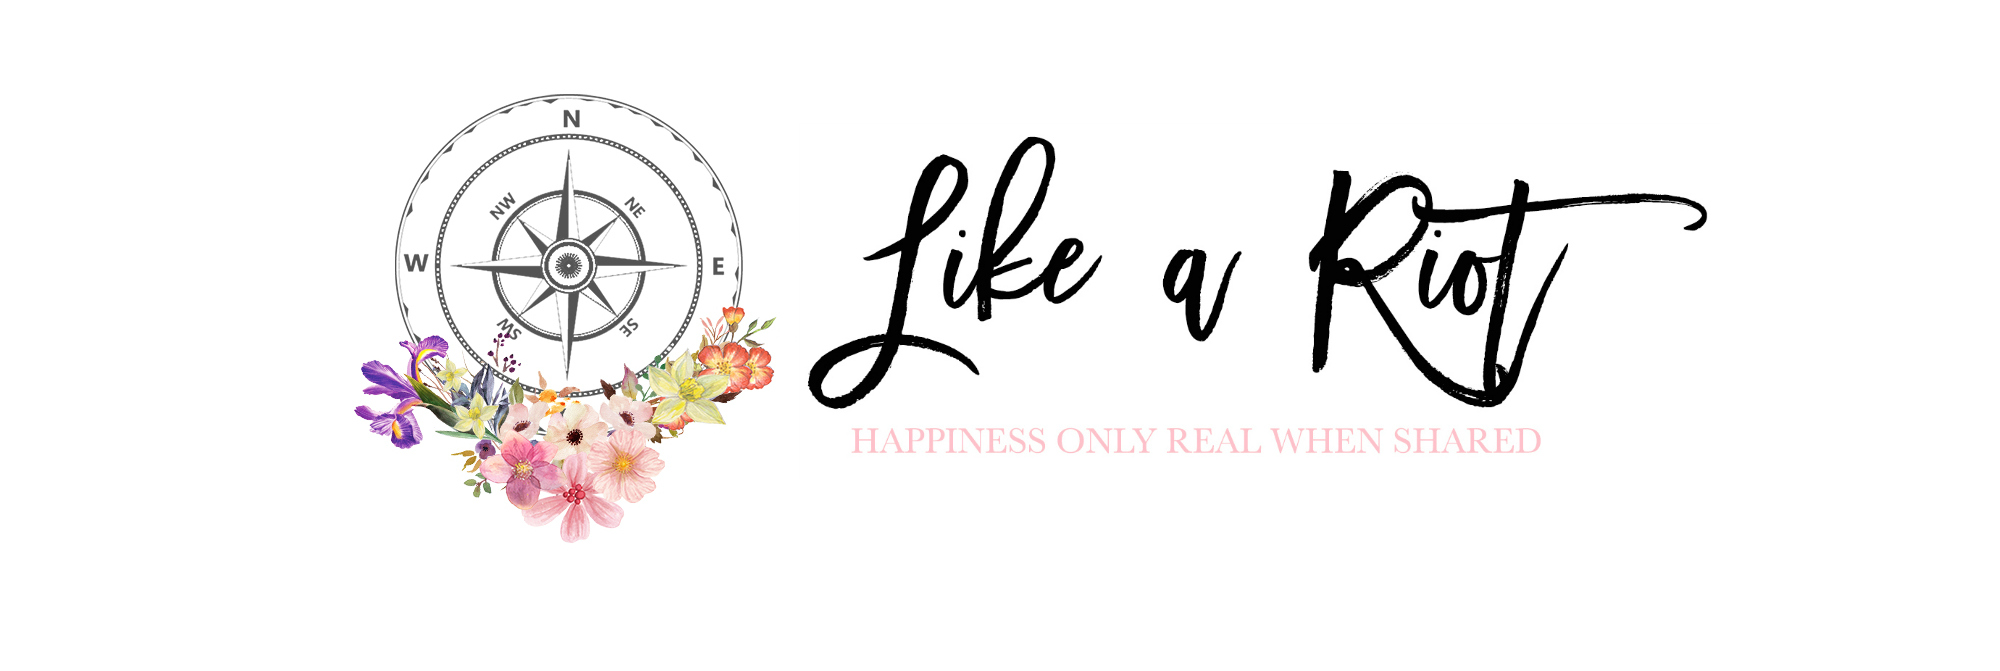
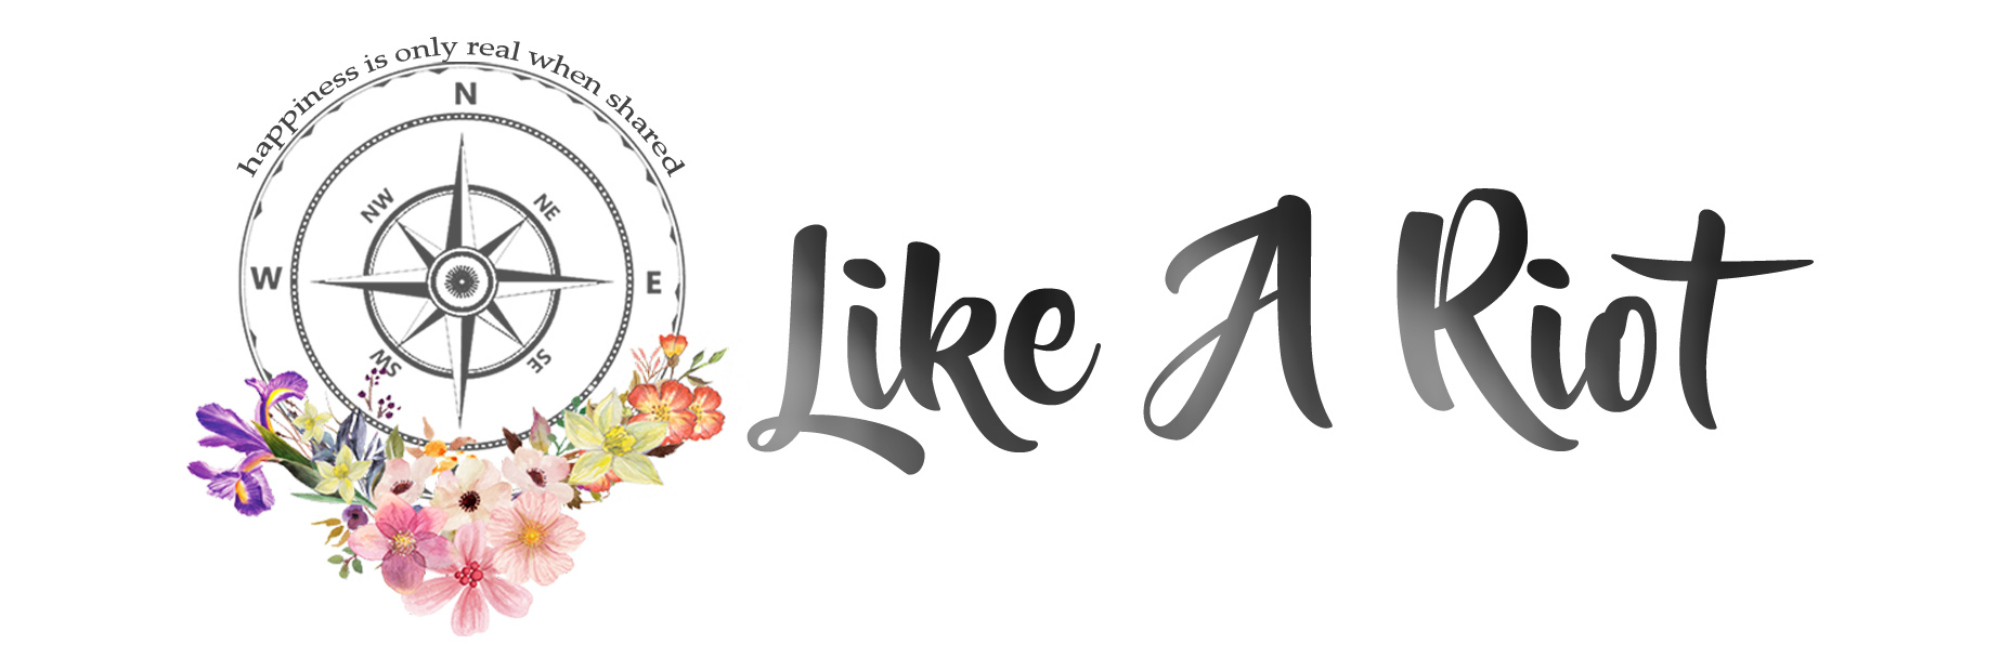
changed header, removed zeitdeck email, and fixed post title size

Changed region(s): [[0.093, 0.0596, 0.899, 0.9538]]

diff --git a/templates/base.html b/templates/base.html
@@ -300,7 +300,7 @@
 											</a>
 										</li>
 										<li>
-											<a href="mailto:likeariot@zeitdeck.com">
+											<a href="mailto:cooperations@likeariot.com">
 												<i class="fa fa-envelope"></i>
 											</a>
 										</li>
@@ -341,7 +341,7 @@
 							</a>
 						</li>
 						<li>
-							<a target="_blank" href="mailto:likeariot@zeitdeck.com">
+							<a target="_blank" href="mailto:cooperations@likeariot.com">
 								<i class="fa fa-envelope"></i>
 							</a>
 						</li>
@@ -412,7 +412,7 @@
 									<img src="{% static "images/footerimage.png" %}" alt="" />
 									<p>For all business inquiries:</p>
 									<p id="mailp">
-										<a class="mail footer_links" href="mailto:likeariot@zeitdeck.com">likeariot@zeitdeck.com</a>
+										<a class="mail footer_links" href="mailto:cooperations@likeariot.com">cooperations@likeariot.com</a>
 									</p>
 									<div style="">
 									<!-- Social Networks -->
@@ -444,7 +444,7 @@
 											</a>
 										</li>
 										<li>
-											<a href="mailto:likeariot@zeitdeck.com">
+											<a href="mailto:cooperations@likeariot.com">
 												<i class="fa fa-envelope"></i>
 											</a>
 										</li>

diff --git a/static/css/layout.css b/static/css/layout.css
@@ -1353,10 +1353,10 @@
 		width:100%;
 		background-repeat:no-repeat;
 		background-position: center center;
-		-webkit-background-size: cover;
-		-moz-background-size: cover;
-		-o-background-size: cover;
-		background-size: cover;
+		-webkit-background-size: contain;
+		-moz-background-size: contain;
+		-o-background-size: contain;
+		background-size: contain;
 	}
 
 	#header-image
@@ -2108,16 +2108,16 @@
 
 	.post__title
 	{
-		/*font-size: 4.5em;*/
-		font-size: 45px;
+		font-size: 40px;
 		font-weight: 400;
 		letter-spacing: 0.05em;
 		text-align: center;
 		margin: 0.2em 0 0.0em 0;
-		/*font-family: 'Denigan';*/
 		font-family: 'Beyond';
-		margin-top: 30px;
+		margin-top: 22px;
 		line-height: 130%;
+		padding-left: 20px;
+		padding-right: 20px;
 	}
 
 	.post-title-small
